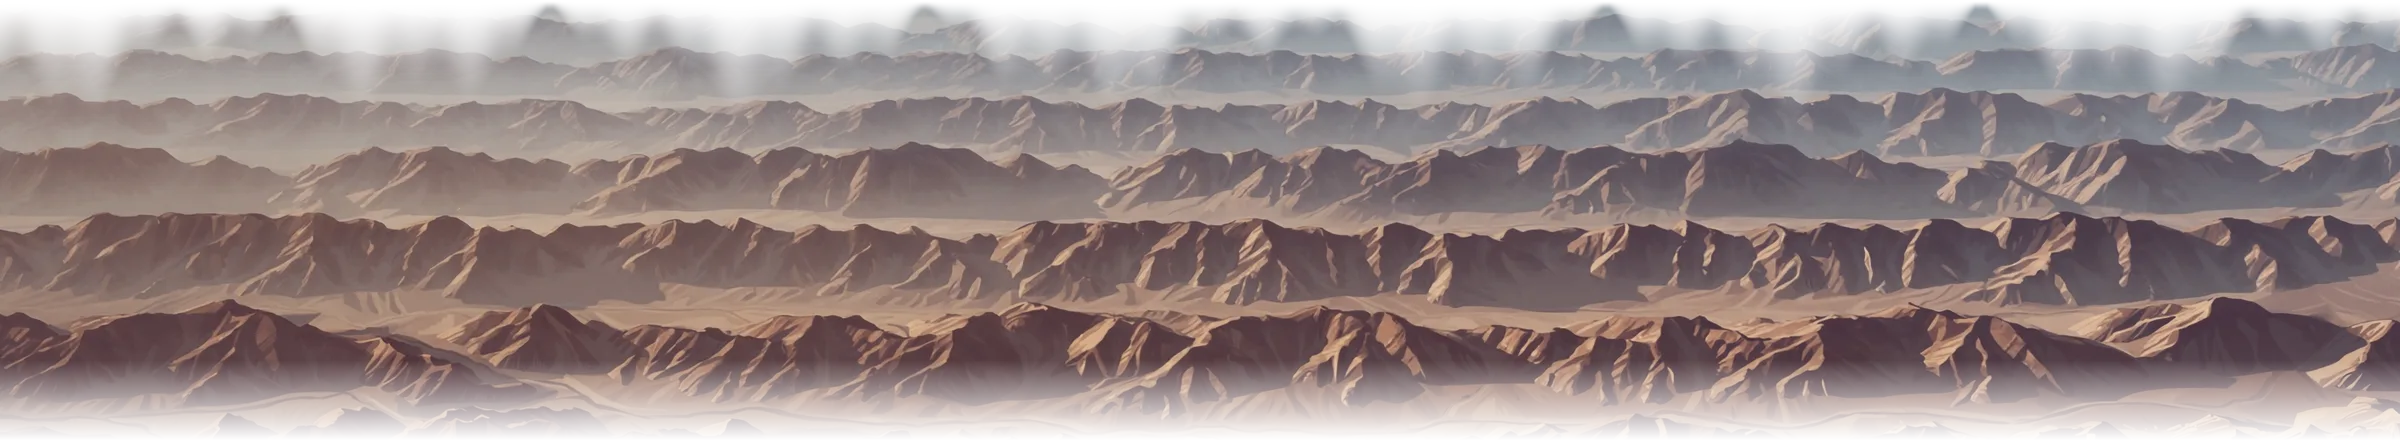
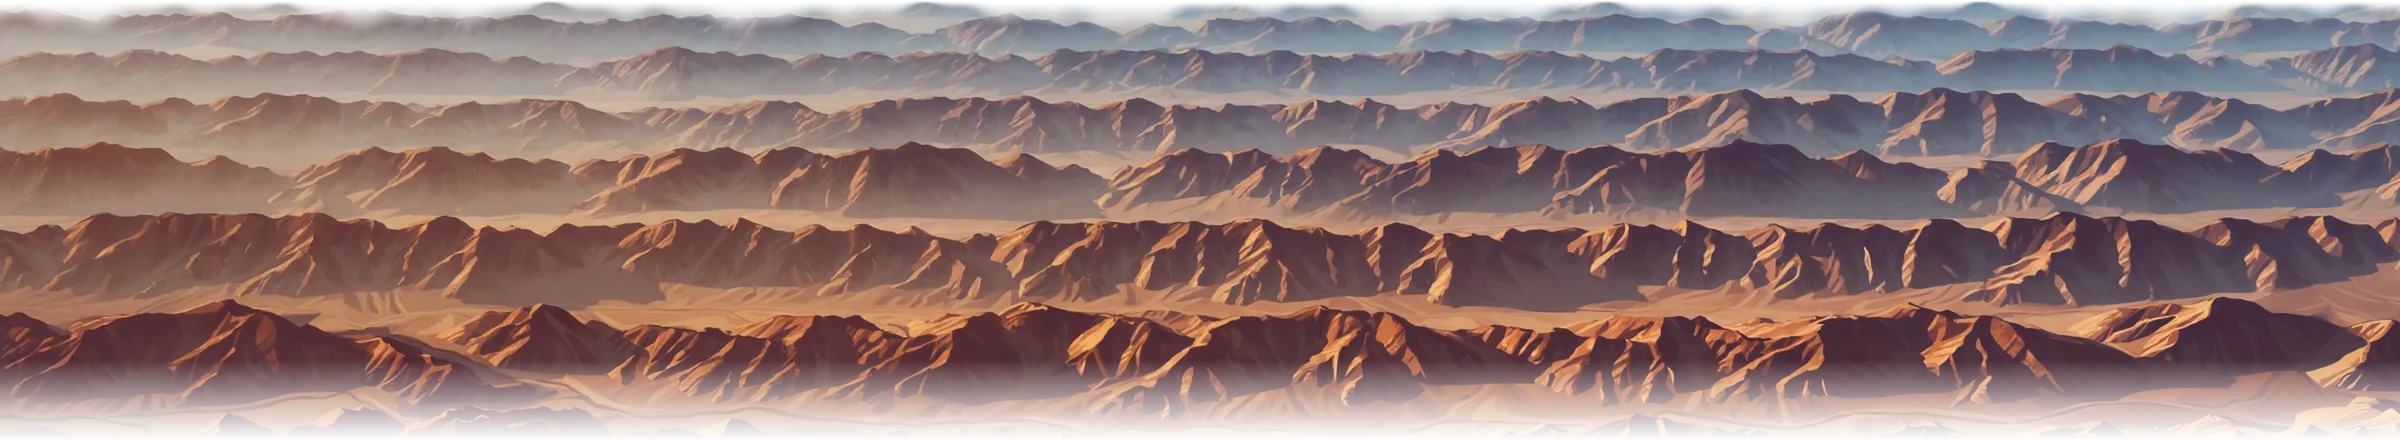
6loud DEV FORK 134: THE DAY BREAK FLOOR FIX (Keith, 2026-11-16 20:27 ET, gameplay video of FORK 132, Sayori in Day Break: the desert mountain floor "is real faint but its riding too high" and "needs to be more visible like flower fields" -- "Flower fields And the golden hour are the spec"). Builder 

diff --git a/6loud/dev/index.html b/6loud/dev/index.html
@@ -292,7 +292,7 @@
   <button id="charR" aria-label="Next character"></button>
   <div id="selectStack"><div id="charName">6LADE</div><div id="charBest"></div><div id="charLock" style="display:none;pointer-events:auto;cursor:pointer;"></div>   <!-- DEV FORK 74: the price line is a tap target — it opens the buy card --></div>
   <div id="strip"></div>
-  <div id="mapToast" style="display:none;"><img id="mapBadge" src="unlock-badge.webp" alt="NEW LEVEL UNLOCKED!"><div class="mt2" id="mapToastName">MIDNIGHT RUN</div></div>   <!-- DEV FORK 27: Keith's badge art carries the announcement; the gold line names the map --><div id="titleUI">   <!-- DEV FORK 26: the unlock toast lives at body level — a fixed element inside a transformed ancestor would anchor to the ancestor, not the sky --><button id="startBtn">START GAME</button><button id="mapBtn" style="display:none;">MAP: DAY BREAK</button>   <!-- DEV FORK 26: the start-area toggle --><button id="optBtn" class="audTg">OPTIONS</button><div id="ver">v0.99.8 · DEV FORK 133</div></div>
+  <div id="mapToast" style="display:none;"><img id="mapBadge" src="unlock-badge.webp" alt="NEW LEVEL UNLOCKED!"><div class="mt2" id="mapToastName">MIDNIGHT RUN</div></div>   <!-- DEV FORK 27: Keith's badge art carries the announcement; the gold line names the map --><div id="titleUI">   <!-- DEV FORK 26: the unlock toast lives at body level — a fixed element inside a transformed ancestor would anchor to the ancestor, not the sky --><button id="startBtn">START GAME</button><button id="mapBtn" style="display:none;">MAP: DAY BREAK</button>   <!-- DEV FORK 26: the start-area toggle --><button id="optBtn" class="audTg">OPTIONS</button><div id="ver">v0.99.8 · DEV FORK 134</div></div>
   <div id="dbg"></div>
   <div id="adSim"><div class="adSimIn"><button id="adSimClose" disabled>✕</button><div class="adSimTag">TEST AD · <span id="adSimKind">REWARDED</span></div><div class="adSimBody">Your ad would play here.</div><div id="adSimCount">5s</div><div class="adSimBar"><div id="adSimFill"></div></div><button id="adSimClaim" class="btn" style="display:none;">CLAIM REVIVE</button><div class="adSimHint" id="adSimHint"></div></div></div>
   <div id="loader"><div class="ldSea"></div><img id="ldEmblem" src="emblem.webp" alt="6LOUD"><div id="ldWord">LOADING...</div><div id="ldBarWrap"><div id="ldBar"><div id="ldFill"></div></div></div><div id="ldSub">GET READY TO JUMP!</div><div id="ldPct">LOADING 0%</div><div id="ldTip"></div></div>
@@ -2851,7 +2851,7 @@ function draw() {
     const sw = W * 0.52, span = sw * 0.66 * seaSet.length;
     if (   /* DEV FORK 124: the FORK 83/84 POOL SWAP that used to open this branch is REMOVED -- the rain worlds take the strip branch below with the cloud floor; the storm/bgrain pools still dress the far/mid layers via __dressDay/__dressOne, they just no longer pave the sea */(window.__pick === 'rmx6' ? (window.__SNOWSTRIP && window.__SNOWSTRIP.naturalWidth) : window.__pick === 'rmx5' ? (window.__PLAINSSTRIP && window.__PLAINSSTRIP.naturalWidth) : (window.__map === 'rain' || window.__map === 'rain2') ? (window.__CLOUDSTRIP && window.__CLOUDSTRIP.naturalWidth) : window.__map === 'mnt' ? (window.__MTNSTRIP && window.__MTNSTRIP.naturalWidth) : window.__map === 'night' ? (window.__OCEANSTRIP && window.__OCEANSTRIP.naturalWidth) : (window.__SEASTRIP && window.__SEASTRIP.naturalWidth))   /* DEV FORK 127: NIGHT SHIFT'S FLOOR keys on the SELECTION ahead of the world -- in rmx6 the slot draws the SNOW strip in both segments; every other selection keeps the FORK 125 pick verbatim inside this one */   /* DEV FORK 125: SUN SHOWER'S FLOOR keys on the SELECTION ahead of the world — in rmx5 the slot draws the PLAINS strip in both segments; every other selection keeps the FORK 124 world condition verbatim inside this one */) {   /* DEV FORK 123: MIDNIGHT RUN'S FLOOR -- in the 'night' world the slot draws the OCEAN strip instead of the sea strip; 'mnt' keeps FORK 121's mountain branch ahead of it */   /* DEV FORK 121: DAY BREAK'S FLOOR -- in the 'mnt' world the slot draws the MOUNTAIN strip instead of the sea strip; every other world keeps FORK 95's sea branch as it was */   /* DEV FORK 95: THE SEA STRIP (Keith, with aerial reference) — the standard worlds' sea is ONE baked cloud-top field drawn as a continuous band along the billow line, mirror-tiled like the city plates with the parity anchored to a world tile index; the five spaced sunset billboards are retired */
       const simg = window.__pick === 'rmx6' ? window.__SNOWSTRIP : window.__pick === 'rmx5' ? window.__PLAINSSTRIP : (window.__map === 'rain' || window.__map === 'rain2') ? window.__CLOUDSTRIP : window.__map === 'mnt' ? window.__MTNSTRIP : window.__map === 'night' ? window.__OCEANSTRIP : window.__SEASTRIP, sh3 = H * 0.34, sw3 = sh3 * simg.naturalWidth / simg.naturalHeight, scroll = camX * 0.58 * S;   /* DEV FORK 127: the picture in the slot follows the SELECTION first (the snow ridge for NIGHT SHIFT, either segment; the plains for SUN SHOWER), then the world (cloud sea in the rain worlds, mountain in 'mnt', ocean in 'night', the sea strip everywhere else); same band geometry, same billow line, same 0.58 parallax, same seaVis gate on the alpha below */   /* DEV FORK 125: the picture in the slot follows the SELECTION first (plains for SUN SHOWER, either segment), then the world (cloud sea in the rain worlds, mountain in 'mnt', ocean in 'night', the sea strip everywhere else); same band geometry, same billow line, same 0.58 parallax, same seaVis gate on the alpha below */   /* DEV FORK 124: the picture in the slot follows the world -- cloud sea in the rain worlds, mountain in 'mnt', ocean in 'night', the sea strip everywhere else; same band geometry, same billow line, same 0.58 parallax, same seaVis gate on the alpha below */   /* DEV FORK 123: the picture in the slot follows the world -- mountain in 'mnt', ocean in 'night', the sea strip everywhere else; same band geometry, same billow line, same 0.58 parallax, same seaVis gate on the alpha below */   /* DEV FORK 121: same band geometry, same billow line, same 0.58 parallax, same seaVis gate on the alpha below -- only the picture in the slot changes with the world */
-      const __lift128 = (simg === window.__MTNSTRIP) ? H * 0.20 : 0; window.__below121.lift = __lift128;   /* DEV FORK 128: DAY BREAK'S FLOOR COMES UP HIGHER (Keith, 2026-11-16) -- the mountain band rises by a fifth of the screen so its textured body clears the ridge line; keyed on the picked picture, so every other floor keeps FORK 127's geometry exactly */
+      const __lift128 = (simg === window.__MTNSTRIP) ? H * 0.10 : 0; window.__below121.lift = __lift128;   /* DEV FORK 134: THE LIFT HALVES (Keith, 2026-11-16 20:27 ET) -- FORK 128's fifth-of-the-screen raise rode TOO HIGH (the band crossed behind the decks); a tenth of the screen keeps the range clear of the ridge bases without the climb, and the presence Keith asked for now comes from the v2 re-bake of the strip itself (tools/bake_mtnstrip_v2.py: firmer top edge, deeper shadows, more saturation). Keyed on the picked picture, so every other floor keeps its geometry exactly */
       const k0 = Math.floor(scroll / sw3);
       ctx.save(); ctx.globalAlpha = 0.97 * (1 - 0.5 * sky.star) * __seaVis * __cwS;
       window.__below121.img = (simg === window.__SNOWSTRIP) ? 'snowstrip' : (simg === window.__PLAINSSTRIP) ? 'plainsstrip' : (simg === window.__CLOUDSTRIP) ? 'cloudstrip' : (simg === window.__MTNSTRIP) ? 'mtnstrip' : (simg === window.__OCEANSTRIP) ? 'oceanstrip' : 'seastrip';   /* DEV FORK 127: the one below ledger now names the snow strip too */   /* DEV FORK 125: the one below ledger now names the plains strip too */   /* DEV FORK 124: the one below ledger now names the cloud strip too */   /* DEV FORK 123: the one below ledger now names the ocean strip too */ window.__below121.alpha = 0.97 * (1 - 0.5 * sky.star) * __seaVis * __cwS; window.__below121.tiles = 0;   /* DEV FORK 121: ledger -- which floor drew, at the gated alpha the gate actually gave it */
@@ -3255,12 +3255,12 @@ function dbgTick(ts) {
   if (mode === 'over') {   /* DEV FORK: on the results screen the readout SHRINKS to a two-line strip docked at the very bottom — the full panel was sprawled over the leaderboard (Keith's screenshot, 2026-11-11) */
     const el = $('dbg');
     el.style.top = 'auto'; el.style.bottom = 'calc(4px + env(safe-area-inset-bottom))'; el.style.fontSize = '9.5px';
-    el.textContent = 'FORK133 · OVER · ' + dbgFps + 'fps · ' + innerWidth + 'x' + innerHeight + ' · ' + selChar + ' R' + (PSKIN.rate || 1) + ' · DIST ' + Math.round(runFt()) + ' FT · SCR ' + score + ' · JMP ' + jumps + '\n' + ghostTxt + (DBG_EV.length ? ' · ' + DBG_EV[DBG_EV.length - 1] : '');
+    el.textContent = 'FORK134 · OVER · ' + dbgFps + 'fps · ' + innerWidth + 'x' + innerHeight + ' · ' + selChar + ' R' + (PSKIN.rate || 1) + ' · DIST ' + Math.round(runFt()) + ' FT · SCR ' + score + ' · JMP ' + jumps + '\n' + ghostTxt + (DBG_EV.length ? ' · ' + DBG_EV[DBG_EV.length - 1] : '');
     return;
   }
   const el = $('dbg'); el.style.top = ''; el.style.bottom = ''; el.style.fontSize = '';
   const lines = [
-    'FORK133 · ' + String(mode).toUpperCase() + ' · ' + dbgFps + 'fps · ' + innerWidth + 'x' + innerHeight + ' dpr' + (devicePixelRatio || 1),
+    'FORK134 · ' + String(mode).toUpperCase() + ' · ' + dbgFps + 'fps · ' + innerWidth + 'x' + innerHeight + ' dpr' + (devicePixelRatio || 1),
     'CHR ' + selChar + ' R' + (PSKIN.rate || 1) + ' · SPD ' + Math.round(speed) + ' · ZOOM ' + zoom.toFixed(2),
     'DIST ' + Math.round(runFt()) + ' FT · SCR ' + score + ' · JMP ' + jumps,
     'vy ' + Math.round(vy) + (grounded ? ' · GROUND' : ' · AIR ' + (airMove || '-')) + ' · DBL ' + (doubleArmed ? 'ARM' : doubleUsed ? 'USED' : '-') + ' · TPL ' + (tripleUsed ? 'USED' : '-'),
